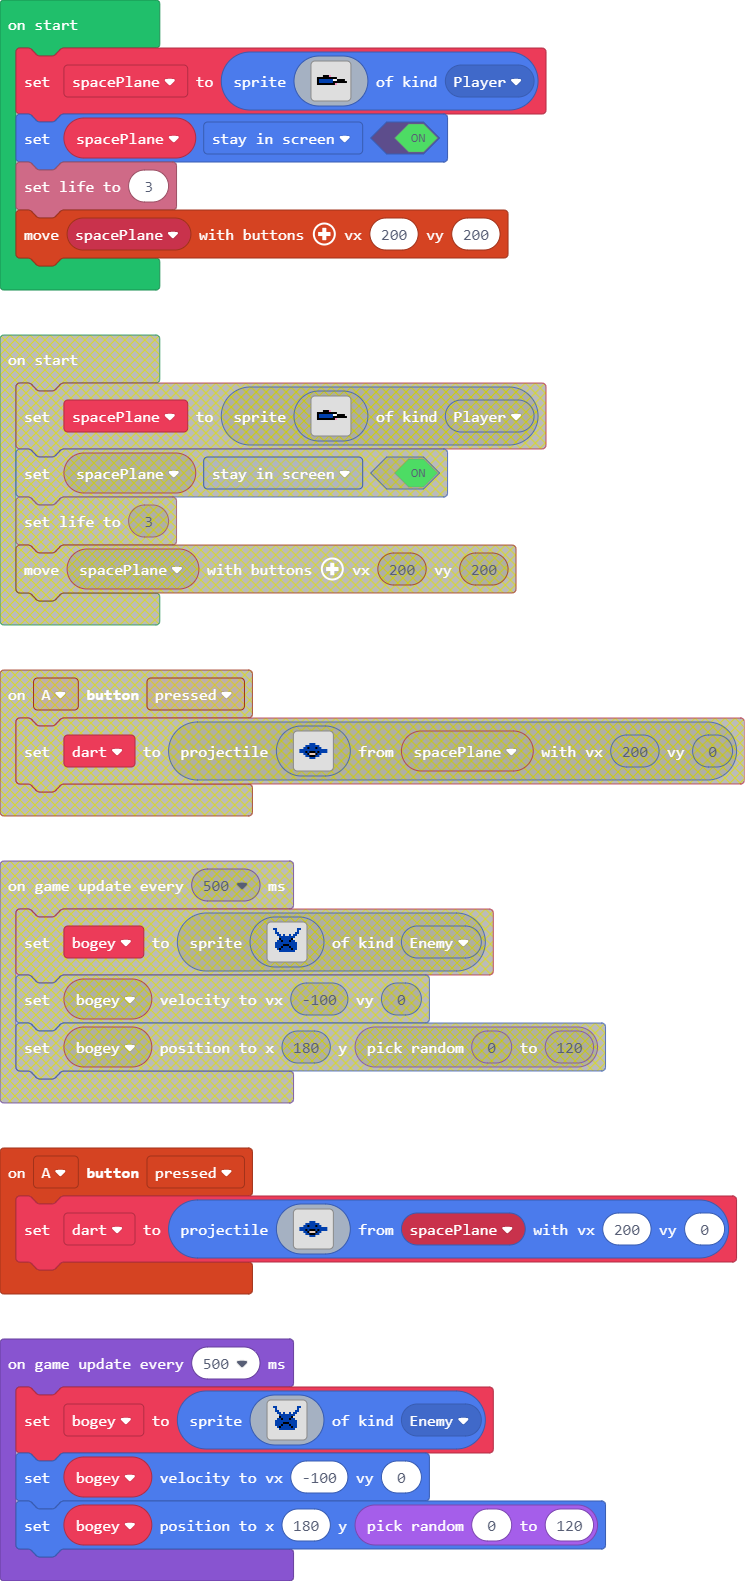
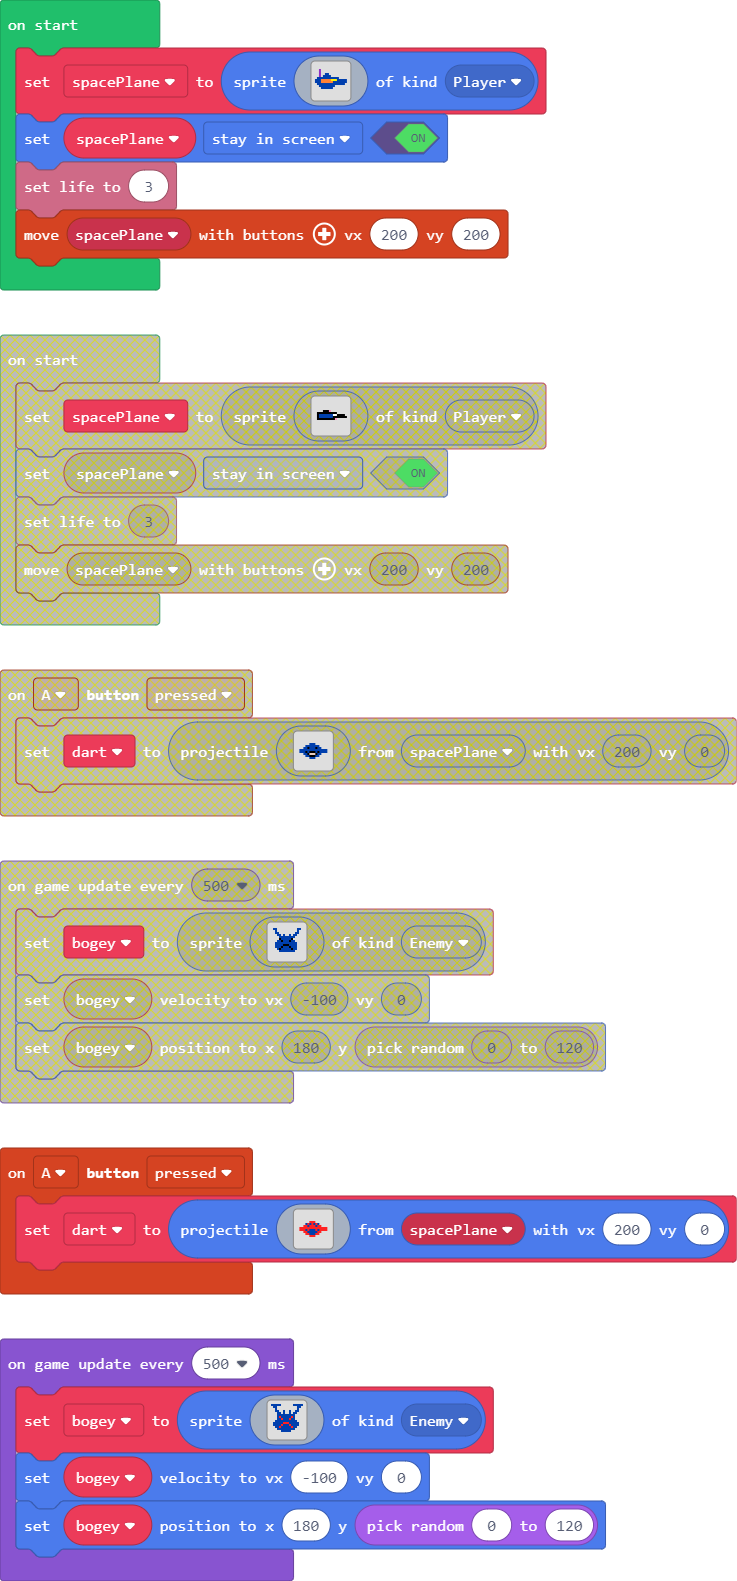
Update main.blocks, main.ts

diff --git a/main.ts b/main.ts
@@ -8,14 +8,14 @@ controller.A.onEvent(ControllerButtonEvent.Pressed, function () {
 . . . . . . . . . . . . . . . . 
 . . . . . . . . . . . . . . . . 
 . . . . . . . . . . . . . . . . 
-. . . . . . 8 8 8 . . . . . . . 
-. . . . 8 8 8 8 8 8 8 . . . . . 
-. . . 8 8 f 8 8 8 f 8 8 . . . . 
-. 8 8 8 8 8 8 8 8 8 8 8 8 8 8 . 
-. 8 8 8 f 8 f f f 8 f 8 8 8 8 . 
-. . . 8 8 f d d d f 8 8 . . . . 
-. . . . 8 8 f f f 8 8 . . . . . 
-. . . . . . 8 8 8 . . . . . . . 
+. . . . . . 2 2 2 . . . . . . . 
+. . . . 8 2 8 2 8 2 8 . . . . . 
+. . . 2 2 8 2 2 2 8 2 2 . . . . 
+. 2 2 2 2 2 2 2 2 2 2 2 2 2 2 . 
+. 2 2 2 8 2 8 8 8 2 8 2 2 2 2 . 
+. . . 2 2 8 8 8 8 8 2 2 . . . . 
+. . . . 2 2 8 8 8 2 2 . . . . . 
+. . . . . . 2 2 2 . . . . . . . 
 . . . . . . . . . . . . . . . . 
 . . . . . . . . . . . . . . . . 
 . . . . . . . . . . . . . . . . 
@@ -32,16 +32,16 @@ let spacePlane: Sprite = null
 spacePlane = sprites.create(img`
 . . . . . . . . . . . . . . . . 
 . . . . . . . . . . . . . . . . 
-. . . . . . . . . . . . . . . . 
-. . . . . . . . . . . . . . . . 
-. . . . . . . . . . . . . . . . 
-. . . . f f f 3 . . . . . . . . 
-. f f f f f f f f f f . . . . . 
-. f 8 8 8 8 8 8 8 1 1 f f f f . 
-. f 8 8 8 8 8 8 8 f f f f f f f 
-. f f f f f f f f f 3 . . . . . 
-. . . . . . . . . . . . . . . . 
-. . . . . . . . . . . . . . . . 
+. . a . . . . . . . . . . . . . 
+. . a . . . . . . . . . . . . . 
+. . a . . 8 8 . . . . . . . . . 
+. . a . 8 8 8 8 . . . . . . . . 
+. 8 8 8 8 8 8 8 8 8 8 8 . . . . 
+8 8 8 4 4 4 4 4 5 5 5 8 8 8 8 8 
+8 8 8 4 4 4 4 4 4 8 8 8 8 8 8 8 
+. 8 8 8 8 8 8 8 8 8 8 8 8 8 8 . 
+. . 8 8 8 8 8 8 8 8 . . . . . . 
+. . . 8 8 8 8 8 8 . . . . . . . 
 . . . . . . . . . . . . . . . . 
 . . . . . . . . . . . . . . . . 
 . . . . . . . . . . . . . . . . 
@@ -52,20 +52,20 @@ info.setLife(3)
 controller.moveSprite(spacePlane, 200, 200)
 game.onUpdateInterval(500, function () {
     bogey = sprites.create(img`
-. . . . . . . . . . . . . . . . 
+8 8 8 8 8 . . . . . . 8 8 8 8 8 
 . 8 8 . . . . . . . . . . 8 8 . 
 . . 8 . . . . . . . . . . 8 . . 
-. . 8 8 . . . . . . . . 8 8 . . 
+. . 8 8 . . 8 . . 8 . . 8 8 . . 
 . . . 8 8 . 8 . . 8 . 8 8 . . . 
-. . . . 8 8 8 8 8 8 8 8 . . . . 
-. . . . f 8 8 8 8 8 f . . . . . 
-. . . 8 8 f 8 8 8 f 8 8 . . . . 
+. . . 8 8 8 8 8 8 8 8 8 . . . . 
+. . . 8 2 8 8 8 8 8 2 8 . . . . 
+. . . 8 8 2 8 8 8 2 8 8 . . . . 
 . . 8 8 8 8 8 8 8 8 8 8 8 . . . 
-. . 8 8 8 8 f f f 8 8 8 8 . . . 
-. . 8 8 8 f 8 8 8 f 8 8 8 . . . 
-. . . 8 f 8 8 8 8 8 f 8 8 . . . 
-. . . . 8 8 8 8 8 8 8 8 . . . . 
-. . . . . . . . . . . . . . . . 
+. 8 8 8 8 8 2 2 2 8 8 8 8 8 . . 
+. 8 8 8 8 2 8 8 8 2 8 8 8 8 . . 
+. . 8 8 2 8 8 8 8 8 2 8 8 . . . 
+. . . 8 8 8 8 8 8 8 8 8 . . . . 
+. . . . . 8 8 8 8 8 . . . . . . 
 . . . . . . . . . . . . . . . . 
 . . . . . . . . . . . . . . . . 
 `, SpriteKind.Enemy)
